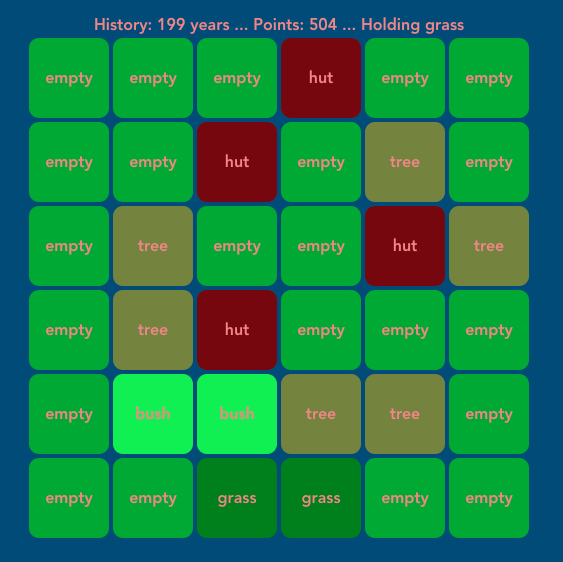
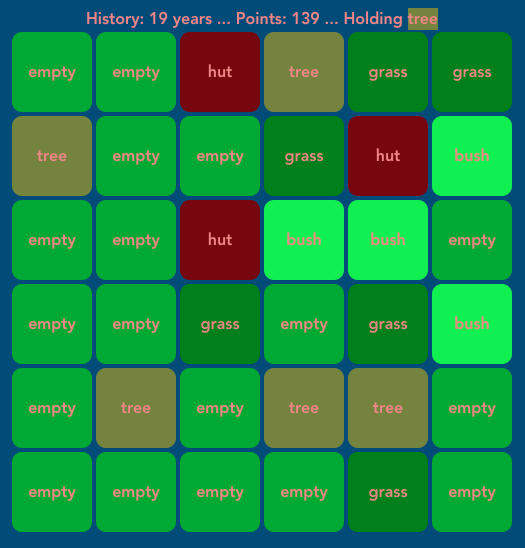
hold new random item after placing one

diff --git a/src/App.vue b/src/App.vue
@@ -1,6 +1,10 @@
 <template>
   <div id="app">
-    <div>History: {{ turns }} years ... Points: {{ points }} ... Holding {{ states[holding] }}</div>
+    <div>
+      History: {{ turns }} years ...
+      Points: {{ points }} ... 
+      Holding <span :class="[states[holding]]">{{ states[holding] }}</span>
+    </div>
     <div class="grid">
       <div
         class="row"
@@ -92,7 +96,16 @@ export default {
       if (this.getStateClass(i, j) != 'empty') return;
       this.turns++;
       this.setCell(i, j, this.holding);
+
       this.absorbSurroundingSimilarCells(i, j);
+
+      // hold a potentially-different item next
+      let state = 1; // grass
+      const r = Math.random();
+      if (r > 0.98) state = 4; // hut
+      else if (r > 0.92) state = 3; // tree
+      else if (r > 0.82) state = 2; // bush
+      this.holding = state;
     },
     // absorbSurroundingSimilarCells absorbs surrounding cells of the given cell,
     // checking adjacent cells and those adjacent cells.
